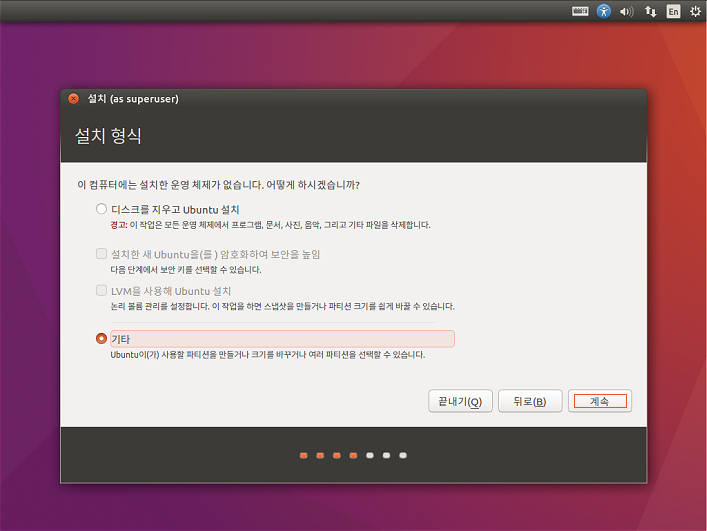
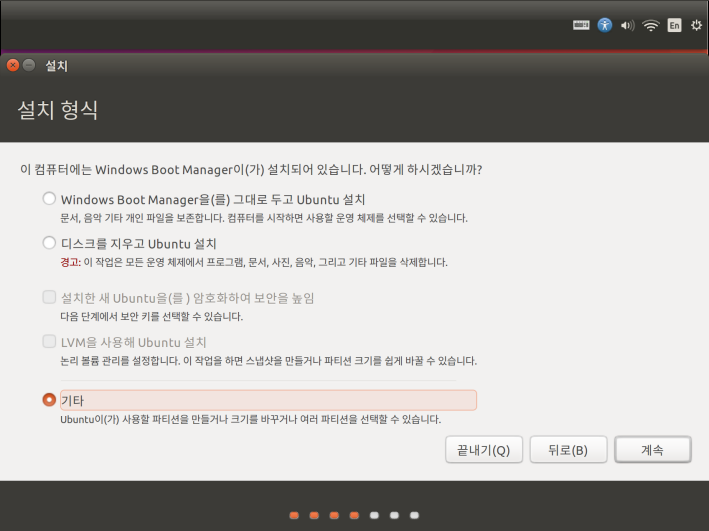
new file:   img/ubuntu16/00_grub.png 	new file:   img/ubuntu16/02_connect_wifi_1.png 	new file:   img/ubuntu16/02_connect_wifi_2.png 	modified:   img/ubuntu16/02_during_setup.png 	modified:   img/ubuntu16/03_setup_where.png 	modified:   img/ubuntu16/04_add_partition.png 	modified:   img/ubuntu16/05_

diff --git a/ubuntu16/install_ubuntu_1604_lts.md b/ubuntu16/install_ubuntu_1604_lts.md
@@ -2,13 +2,17 @@
 
 ### Ubuntu 16.04 LTS 설치
 
-이 후 내용은 Microsoft Windows 10 이 설치되어있는 Intel x64 또는 AMD64 시스템을 기준으로 작성되었습니다.
+본 문서는 Microsoft Windows 10 이 설치되어있는 Intel x64 또는 AMD64 시스템을 기준으로 작성되었습니다.
 
-
+---
 
 #### 1. 설치전 준비
 
-**설치 ISO 파일 다운로드 :** https://releases.ubuntu.com/16.04/ 
+우분투 설치전 준비할 작업은 '설치 파일 다운로드', '설치 USB 디스크 작성', '설치할 PC 의 하드디스크 공간확보' 이다.
+
+
+
+**설치 ISO 파일 다운로드 :** https://releases.ubuntu.com/16.04/  
 
 <img src="..\img\ubuntu16\_download_iso.png" width="100%">
 
@@ -24,83 +28,113 @@ Rufus 다운로드 : https://rufus.ie/
 
 
 
+다운로드한 'Rufus' 를 실행한다.
 
+**'장치'**에 선택된 드라이브가 설치 미디어를 만들기 위한 USB 장치인지 확인한다. (다른 드라이브 데이터 삭제 주의)
+
+**[ 선택 ]** 버튼을 클릭하여 다운로드한 ISO 파일(ubuntu-16.04.7-desktop-amd64.iso)을 선택한다. 
+
+**'파티션 방식'**은 **'MBR'**을 선택한다. ( 우분투를 설치할 PC 가 2020년 이 후 출시된 64비트 컴퓨터일 경우는 'GPT' 를 선택해도 된다. MBR 을 선택하면 설치 PC 가 신, 구형에 상관 없이 사용 가능하다. )
+
+**'파일 시스템'**은 **'FAT32'**, **'NTFS'** 중 무엇을 선택해도 상관없다.  ( 설치파일들이 차지하는 크기가 4GB 미만이므로 남은 공간이 어떤 파일시스템인 것이 유리할 지를 고려해 결정한다. 4GB 이상의 크기를 가지는 파일을 보관할 필요가 있다면 꼭 NTFS 를 선택한다. )
 
 <img src="..\img\ubuntu16\_rufus01.png">
 
 
 
+**[ 시작 ]** 버튼을 누르면 디스크 기록이 시작된다.  ( 각 경고창에 대해서는 아래 그림을 참고한다. )
+
+**'ISO 이미지 모드로 쓰기'** 를 선택하고 **[ OK ]** 버튼을 클릭한다. DD 이미지 모드로 기록할 경우, 설치디스크 전체 크기 중 설치파일들이 차지하는 크기( 4GB 미만 )의 디스크 파티션을 만들고 나머지 공간은 할당되지 않은 채로 남겨진다. 
+
+MBR 파티션을 선택할 경우 USB 디스크로 부팅하기 위해 필요한 `ldlinux.sys` 와 `ldlinux.bss` 파일을 다운로드한다는 대화상자가 나타나는데 **[ 예(<u>Y</u>) ]** 를 클릭한다. ( 한 번 다운로드하면 이후 필요 시 다운받아둔 파일을 사용하므로 처음 한 번만 필요한 과정이다. )
+
+마지막 경고창은 이미지기록이 일단 진행되면 해당 USB 디스크의 내용은 복구 불가능하기 때문에 엉뚱한 USB 디스크에 기록하는 것이 아닌가 최종 확인하는 과정이다.
+
+<img src="..\img\ubuntu16\_rufus02.png">
+
+
+
 **설치 공간 확보**
 
-키보드에서 '<img src="..\img\ubuntu16\__win_key.png" width="20">' + ' **X** ' 키를 누르면 나타나는 메뉴에서 ' **K** '를 누르면 **'디스크 관리자'** 가  실행된다.
+키보드에서 '<img src="..\img\ubuntu16\__win_key.png" width="20">' + ' **X** ' 키를 눌러 나타난 메뉴에서 ' **K** '를 누르면 **'디스크 관리자'** 가  실행된다. 
+
+이 시스템의 디스크 관리화면을 보면 **(C:)**드라이브의 경우 전체 98GB 중 67%( 약 **60GB** 이상 )가 사용가능하고,  **(D:)**드라이브의 경우 전체 388GB 중 49%( 약 **180GB** 이상 )가 사용가능하다는 것을 알 수 있다. 
+
+**(D:)**드라이브에 우분투 설치공간을 마련하기위해 **(D:)**드라이브 영역에 마우스 우측 버튼을 클릭하여 나타난 메뉴에서 **'볼륨 축소(H)'** 를 클릭한다. 
 
 <img src="..\img\ubuntu16\disk_mgmt_01.png" width="50%"><img src="..\img\ubuntu16\disk_mgmt_02.png" width="50%">
 
 
 
+8GB의 스왑영역과 80GB 정도의 설치공간을 확보하려 한다. ( 우분투 + ROS + 각 종 추가 ROS 패키지 등이 설치되어야 하므로 스왑을 제외하고 최소 40GB, 가능하다면 60GB 이상의 설치공간을 마련한다. )
 
+` 8GB + 80GB = (8 × 1,024)MB + (80 × 1,024)MB = 90,112(MB) ` 이므로 **'축소할 공간 입력(MB)(E)'** 항목에 **90,112** 를 입력 후 **[ 축소(S) ]** 버튼을 클릭한다. 
 
-<img src="..\img\ubuntu16\disk_mgmt_04.png" width="50%"><img src="..\img\ubuntu16\system_properties.png" width="50%">
+<img src="..\img\ubuntu16\disk_mgmt_04.png" width="50%"><img src="..\img\ubuntu16\disk_mgmt_05.png" width="50%">
 
 
 
 #### 2. 설치
 
-**'한국어'** 선택 후 **'Ubuntu 설치'** 클릭
+PC 의 시스템 셋업( System Setup )의 부트 순서( Boot Priority ) 중 USB Disk 를 최우선 순서로 변경한 후, 앞에서 제작한 우분투 설치 디스크를  삽입하고 시스템을 재시작한다. 
 
-네크워크 연결이나 업데이트 등은 설치 후에 진행하기로하고, **'계속'** 을 클릭한다.
+설치디스크로 부팅이 이루어지면 다음 화면이 나타난다. 이 때 두번째 메뉴 **'Install Ubunt'** 를 선택하고 **Enter** 를 입력한다. 
 
-<img src="..\img\ubuntu16\01_welcome.png" width="50%"><img src="..\img\ubuntu16\02_during_setup.png" width="50%">
+<img src="..\img\ubuntu16\00_grub.png" width="100%">
+
+
+
+'Welcome' 화면에서 **'한국어'** 선택 후 **[ Ubuntu 설치 ]** 버튼을 클릭한다. 
+
+연결 가능한 무선 네트워크가 검색되면 해당 네트워크를 선택하고 **[ 연결 ]** 버튼을 클릭한다. 
+
+<img src="..\img\ubuntu16\01_welcome.png" width="50%"><img src="..\img\ubuntu16\02_connect_wifi_1.png" width="50%">
+
+
+
+무선 네크워크 연결 비밀번호 입력 후, **[ Connect ]** 버튼을 클릭한다.
+
+네트워크에 연결되어있을 경우에는 **'업데이트 다운로드'** 및 **'추가 소프트웨어 설치'** 에 체크한다. ( 설치 후에도 가능한 작업들이므로 건너 띄어도 상관없다. )
+
+<img src="..\img\ubuntu16\02_connect_wifi_2.png" width="50%"><img src="..\img\ubuntu16\02_during_setup.png" width="50%">
 
 
 
 윈도우에서 볼륨을 축소하여 확보한 할당되지 않은 공간에 설치할 것이므로 **'기타'** 를 선택하고 **'계속'** 을 클릭한다.
 
-그림보다는 복잡한 상황이겠지만 <u>윈도우에서 확보한 크기</u>만큼의 **'남은 공간'** 을 확인, 선택하고 **'+'** 를 클릭한다.  
+아래 그림보다는 복잡한 상황이겠지만 윈도우 **디스크 관리자** 에서 확보한 **빈 공간** 만큼의 **'남은 공간'** 을 확인, 선택하고 **[ + ]** 버튼을 클릭한다.  
 
 <img src="..\img\ubuntu16\03_setup_where.png" width="50%"><img src="..\img\ubuntu16\04_add_partition.png" width="50%">
 
 
 
-**'크기'** 에 PC 의 메모리(RAM) 크기(4G: 4096, 8G: 8192, 16G: 16384)를 기입 후 용도에서 **'스왑 영역'** 을 선택한다. 
+**'크기'**에 PC 의 메모리(RAM) 크기( 4G: 4,096, 8G: 8,192, 16G: 16,384 )를 기입 후 **'용도'** 에서 **'스왑 영역'**을 선택한다. ( SWAP: 물리적인 메모리 공간이 부족할 경우 디스크의 일부를 메모리처럼 사용하기 위한 디스크 공간 )
 
-<img src="..\img\ubuntu16\05_swap_partition.png" width="100%">
+다시 **'남은 공간'** 을 선택하고, **[ + ]** 버튼을 클릭한 후,  **'크기'** 에는 남은 공간크기를 그대로 두고 **'마운트 위치'** 에서 **'/'** 를 선택한다. 
 
-
-
-다시 **'남은 공간'** 을 선택하고, **'+'** 를 클릭한 후,  **'마운트 위치'** 에서 **'/'** 를 선택한다.  
-
-<img src="..\img\ubuntu16\06_root_partition.png" width="100%">
+<img src="..\img\ubuntu16\05_swap_partition.png" width="50%"><img src="..\img\ubuntu16\06_root_partition.png" width="50%">
 
 
 
-**'부트로더를 설치할 장치'** 가 윈도우가 설치된 디스크가 맞는지 확인 후, **'지금 설치'** 를 클릭한다.  
+ **'부트로더를 설치할 장치'** 가 윈도우가 설치된 디스크가 맞는지 확인 후, **'지금 설치'** 를 클릭한다.  ( 디스크 드라이브가 하나일 경우에는 확인할 필요가 없으나 둘 이상일 경우에는 확인할 필요가 있다. )
 
-<img src="..\img\ubuntu16\07_partition_result.png" width="100%">
+지금 까지의 파티션 테이블 작업을 최종 확인하는 메세지 상자에서 **[ 계속 ]** 버튼을 클릭한다.
 
-
-
-지금 까지의 파티션 테이블 작업을 최종 확인하는 메세지 상자에서 **'계속'** 을 클릭한다.
-
-<img src="..\img\ubuntu16\08_apply_partition.png" width="100%">
+<img src="..\img\ubuntu16\07_partition_result.png" width="50%"><img src="..\img\ubuntu16\08_apply_partition.png" width="50%">
 
 
 
 **시간대역**(Time Zone)을 설정하는 화면에서 **'Seoul'** 을 선택 후, **'계속'** 을 클릭한다.  
 
-<img src="..\img\ubuntu16\09_where_live.png" width="100%">
+**키보드 레이아웃** 을 설정하는 화면에서 **'한국어'** , **'한국어-한국어(101/104키 호환)'** 을 선택 후, **[ 계속 ]** 버튼을 클릭한다. 
+
+<img src="..\img\ubuntu16\09_where_live.png" width="50%"><img src="..\img\ubuntu16\10_kb_layout.png" width="50%">
 
 
 
-**키보드 레이아웃** 을 설정하는 화면에서 **'한국어'** , **'한국어-한국어(101/104키 호환)'** 을 선택 후, **'계속'** 을 클릭한다. 
+**계정**(Account)에 대한 설정을 하는 과정이다. 
 
-<img src="..\img\ubuntu16\10_kb_layout.png" width="100%">
-
-
-
-**계정**(Account)를 설정하는 과정이다. 
-
-**이름**(Name)은 크게 중요하지 않다.  로그인 화면에 표시되는 이름이다. 심지어 비워 두어도 된다.  
+**이름**(Name)은 크게 중요하지 않다.  단지 로그인 화면에 표시되는 이름이다. 심지어 비워 두어도 된다.  
 
 **컴퓨터 이름**(Host Name)은 네트워크에 연결된 단말명으로 표시되는 이름이다. 영문 대소문자, 숫자, 하이픈( - )만을 사용할 수 있으며, 숫자로 시작할 수 없다.  
 
@@ -108,7 +142,7 @@ Rufus 다운로드 : https://rufus.ie/
 
 **'암호'**(Password)는 숫자, 특수문자, 대, 소문자를 섞어 보안에 취약하지 않도록 정하는 것이 원칙이지만, 중요한 순간에 생각이 나지 않는다면 낭패이므로, 이를 염두에 두어 신중하게 정하도록하자.  ( **'암호 선택'** 입력시 옆에 나타나는 '짧은 암호', '약한 암호' 같은 메세지는 무시해도 상관없다. )
 
-계정에 대한 설정을 마쳤으면 **'계속'** 을 클릭하여 설치를 진행한다.  
+계정에 대한 설정을 마쳤으면 **[ 계속 ]** 버튼을 클릭하여 설치를 진행한다.  
 
 <img src="..\img\ubuntu16\11_whoru.png" width="100%">
 
@@ -116,16 +150,35 @@ Rufus 다운로드 : https://rufus.ie/
 
 이제부터 **'설치 완료'** 대화상자가 나타날 때까지 기다린다. 
 
-<img src="..\img\ubuntu16\12_start_install.png" width="100%">
+**'설치 완료'** 대화상자가 나타나면 **[ 지금 다시 시작 ]** 버튼을 클릭한다. 
+
+<img src="..\img\ubuntu16\12_start_install.png" width="50%"><img src="..\img\ubuntu16\13_finish_install.png" width="50%">
 
 
-
-**'지금 다시 시작'** 을 클릭한다. 
-
-<img src="..\img\ubuntu16\13_finish_install.png" width="100%">
 
 
 
 #### 3. 설치 후 필요한 추가작업
+
+**우분투 업그레이드**
+
+**'새 버전의 우분투를 사용...'** 대화상자가 나타날 경우 **[ 업그레이드 하지 않음 ]** 버튼을 클릭한다. 
+
+**'우분투 18.04 LTS(으)로...'** 대화상자에서 **[ 확인(O) ]** 버튼을 클릭한다. 
+
+<img src="..\img\ubuntu16\upgrade1804_1.png" width="50%"><img src="..\img\ubuntu16\upgrade1804_2.png" width="50%">
+
+
+
+키보드 Ctrl + Alt + T 를 눌러 터미널을 실행하여 'ls' 를 입력하고 엔터를
+
+화면 좌측 런처에서 <img src="..\img\ubuntu16\system_setting_ico.png" width="40"> 아이콘을 클릭하여 **'시스템 설정'** 창을 열고 **'언어 지원'** 을 실행한다. 
+
+
+
+
+
+
+
 
 
